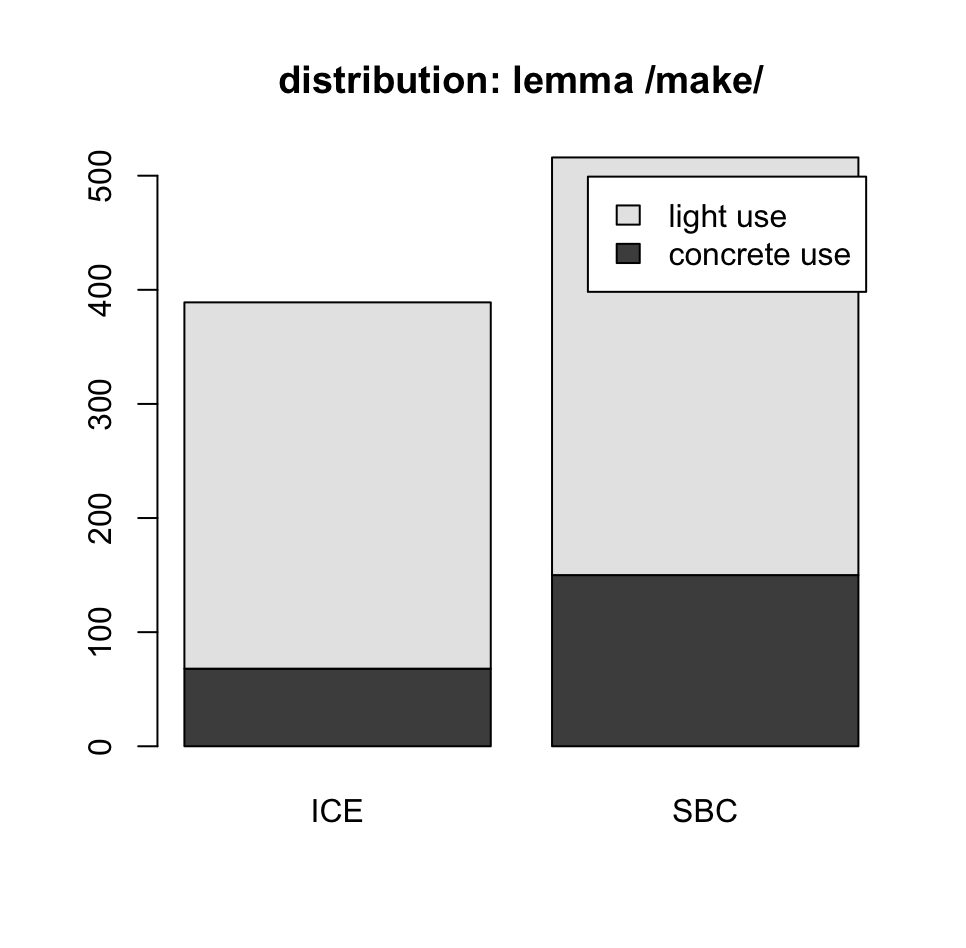
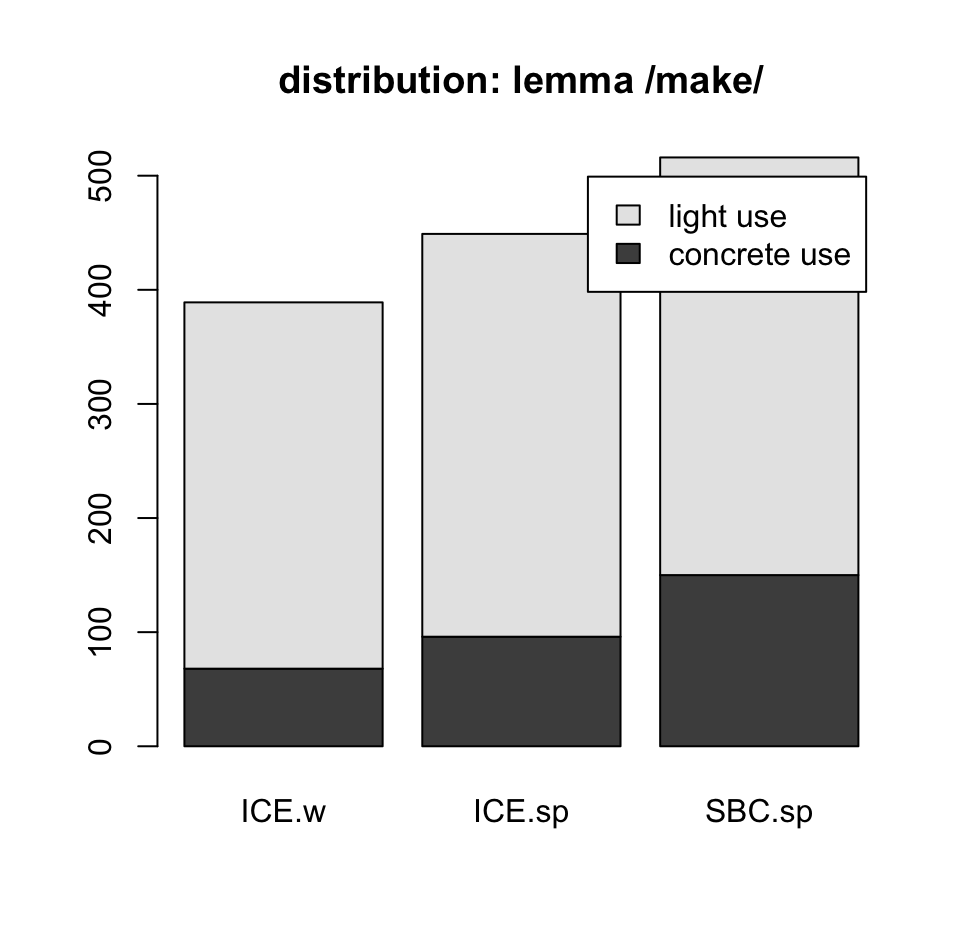
spoken ICE

diff --git a/corpusLX/14015-HA/README.md b/corpusLX/14015-HA/README.md
@@ -18,10 +18,10 @@ Q.2 "https://www.linguistics.ucsb.edu/sites/secure.lsit.ucsb.edu.ling.d7/files/s
 - compare findings and first results:
 - instances concrete vs. light
 
-|token|Mehl:ICE-GB(written)|esteeschwarz:SBC(spoken)|
-| ------------ | ------- | ------ |
-|make-concrete|68|150|
-|make-light|321|366|
+|token|ICE-GB(written)|ICE-GB(spoken)|esteeschwarz: SBC(spoken)|
+| ------------ | ------- | ------ | ------ |
+|make-concrete|68|96|150|
+|make-light|321|353|366|
 
 ![](sbc-ice_dist.png)
 
